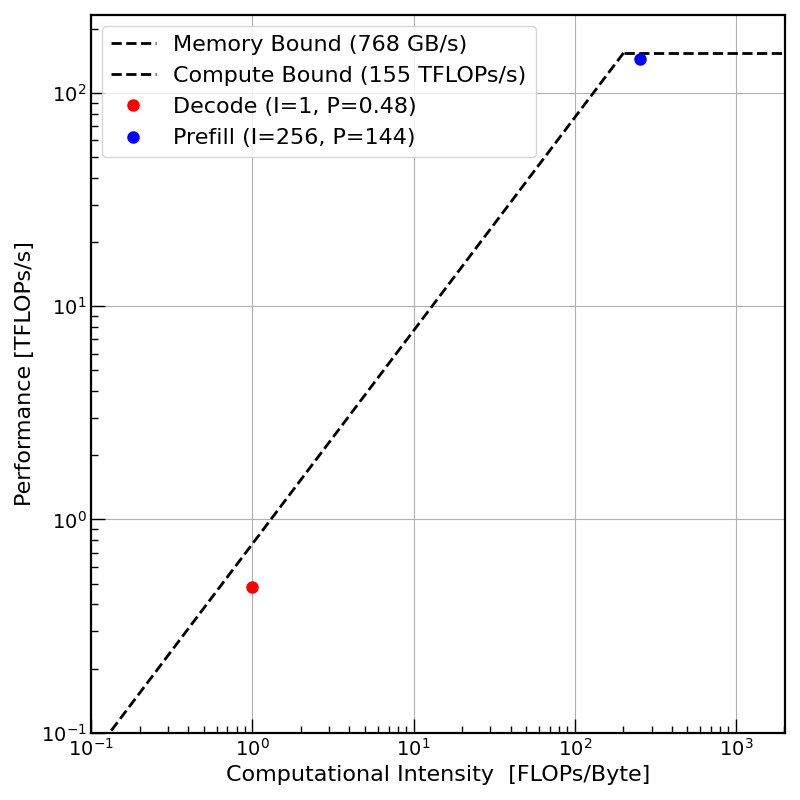
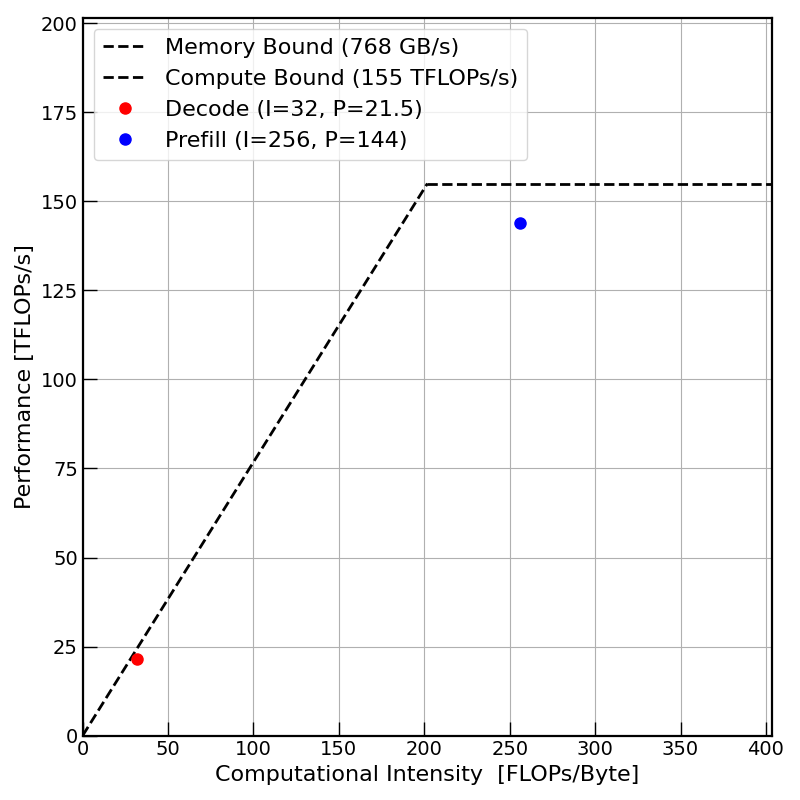
roofline; fixed decode estimate

diff --git a/scripts/plot_roofline.py b/scripts/plot_roofline.py
@@ -45,7 +45,7 @@ def parse_args():
     return parser.parse_args()
 
 
-def plot_roofline(bandwidth, peak, mem_unit=2, log=True):
+def plot_roofline(bandwidth, peak, mem_unit=2, log=False):
     # mem_unit is bytes per mop
     # (TFLOPs/s) * (bytes/mop) * (GB/s) = TFLOPs/GMOPs = 1e3 FLOPs/MOPs
 #    I_c = peak * mem_unit / bandwidth  # TFLOPs/GMOPs
@@ -74,7 +74,7 @@ def plot_roofline(bandwidth, peak, mem_unit=2, log=True):
     # User should also provide the model and measurements of the rates 
     # TODO: parametrize
     N_params = 8e9
-    R_decode = 30. # TODO: put real measurement here  # tokens/s
+    R_decode = 42. # TODO: put real measurement here  # tokens/s
     R_prefill = 9000. # TODO: put real measurement here  # tokens/s
     C_f = 2 * N_params # forward pass compute per token generated, FLOPs/token
     D_f = N_params * mem_unit # model MOPs
@@ -86,35 +86,37 @@ def plot_roofline(bandwidth, peak, mem_unit=2, log=True):
     R_prefill_total = R_prefill * batch_size_prefill  # tokens/s
     efficiency_prefill = R_prefill_total / R_prefill_peak
     # FIXME: This is the main TODO: How to express I_prefill?
-    I_prefill = 1.0 * batch_size_prefill * context_length  # TODO: ??? # 2.0 FLOPs/MOPs(fp16) = 1.0 FLOPs/B
+    I_prefill = 2.0 * batch_size_prefill * context_length  # TODO: ??? # 2.0 FLOPs/MOPs(fp16) = 1.0 FLOPs/B
+    I_prefill = I_prefill / mem_unit # FLOPs/B
     P_prefill = C_f * R_prefill_total # FLOPs/s
     P_prefill = P_prefill * 1e-12  # TFLOPs
-    print("R_prefill = %.1f tokens/s/u" % R_prefill)
-    print("R_prefill_total = %.1f tokens/s" % R_prefill_total)
-    print("R_prefill_peak = %.1f tokens/s" % R_prefill_peak)
+    print("Prefill")
+    print("batch_size = %i" % batch_size_prefill)
+    print("R = %.1f tokens/s/u" % R_prefill)
+    print("R_total = %.1f tokens/s" % R_prefill_total)
+    print("R_peak = %.1f tokens/s" % R_prefill_peak)
     print("efficiency = %.2f" % efficiency_prefill)
-    print("I_prefill = %.1f FLOPs/B" % I_prefill)
-    print("P_prefill = %.1f TFLOPs/s" % P_prefill)
+    print("I = %.1f FLOPs/B" % I_prefill)
+    print("P = %.1f TFLOPs/s" % P_prefill)
     print("")
 
     # Decode calculation
-    # TODO: Shouldn't Decoded depend on batch_size? 
-    batch_size_decode = 1  # TODO: placeholder
-    efficiency_decode = 0.98  # TODO: placeholder
+    batch_size_decode = 32  # TODO: placeholder
     R_decode_peak = bandwidth * 1e9 * batch_size_decode / D_f
-#    R_decode_peak = bandwidth * 1e9 / D_f
     R_decode_total = R_decode * batch_size_decode # tokens/s
     efficiency_decode = R_decode_total / R_decode_peak
-    I_decode = 2.0  # FLOPs/MOPs
+    I_decode = 2.0 * batch_size_decode  # FLOPs/MOPs
     I_decode = I_decode / mem_unit # FLOPs/B
     P_decode = C_f * R_decode_total  # FLOPs/s
     P_decode = P_decode * 1e-12  # TFLOPs
-    print("R_decode = %.1f tokens/s/u" % R_decode)
-    print("R_decode_total = %.1f tokens/s" % R_decode_total)
-    print("R_decode_peak = %.1f tokens/s" % R_decode_peak)
+    print("Decode")
+    print("batch_size = %i" % batch_size_decode)
+    print("R = %.1f tokens/s/u" % R_decode)
+    print("R_total = %.1f tokens/s" % R_decode_total)
+    print("R_peak = %.1f tokens/s" % R_decode_peak)
     print("efficiency = %.2f" % efficiency_decode)
-    print("I_decode = %.1f FLOPs/B" % I_decode)
-    print("P_decode = %.1f TFLOPs/s" % P_decode)
+    print("I = %.1f FLOPs/B" % I_decode)
+    print("P = %.1f TFLOPs/s" % P_decode)
     print("")
 
     fig, ax = plt.subplots(figsize=(8, 8))
